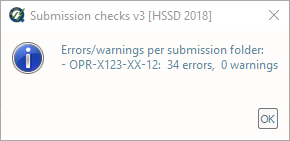
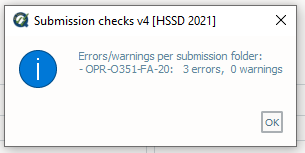
manual updates for Submission Checks

Changed region(s): [[0.0, 0.0, 1.0, 1.0]]

diff --git a/docs/conf.py b/docs/conf.py
@@ -51,7 +51,7 @@ copyright = u'2021, CCOM/JHC,UNH'
 # The short X.Y version.
 version = '3.4'
 # The full version, including alpha/beta/rc tags.
-release = '3.4.2'
+release = '3.4.3'
 
 numfig = True
 

diff --git a/docs/user_manual_survey_submission_checks.rst b/docs/user_manual_survey_submission_checks.rst
@@ -26,23 +26,16 @@ Ensures the required directory structure and completeness of survey deliverables
     * Turn the knob to select the applicable year as pertaining to required Hydrographic Survey Specifications.
     * Flag the **HXXXXX_GSF (NOAA only)** check if the submission is from a NOAA field unit.
 
-* In **Execution** (:numref:`submission_check_interface`, rigth side), click **Submission checks v3**.
+* In **Execution** (:numref:`submission_check_interface`, rigth side), click **Submission checks v4**.
 
 .. _submission_check_interface:
 .. figure:: _static/submission_check_interface.png
     :align: center
-    :alt: logo
+    :alt: submission check interface
 
     The **Submission check** interface.
 
-* After computing, the output window opens automatically, and the results are shown (:numref:`submission_check_results`).
-
-.. _submission_check_results:
-.. figure:: _static/submission_check_results.png
-    :align: center
-    :alt: logo
-
-    The **Submission check** output message.
+* After computing, the output window opens automatically, and the results are shown.
 
 * Note that the project level (**"OPR-X###-XX-##"**) contains all the results from the surveys (**"X#####"**) contained within; thus the number of errors and warnings is equivalent to the sum of the individual components.
 
@@ -50,7 +43,7 @@ Ensures the required directory structure and completeness of survey deliverables
 
 * The output names adopt the following convention:
 
-    * [project].SCv3.["project" | "X#####" | "report"].[HSSD].[profile].["rec" for recursive | "exh" for exhaustive]
+    * [project].SCv4.["project" | "X#####" | "report"].[HSSD].[profile].["rec" for recursive | "exh" for exhaustive]
 
 * The output will be exported under a subfolder (**H#####**) in the output location defined on the data import tab.
   If "sub-folders" is selected in the import tab, the file will be placed in an additional "submissions" sub-folder
@@ -75,7 +68,7 @@ Root folders have the following requirements:
 
 The ensuing submission check will scan the directories of the root folders to ensure compliance with Appendix J of the HSSD.
 
-The logic for the 2018 QC Tools submission check is shown below. For previous years, refer to the HSSD for that year.
+The logic for the 2021 QC Tools submission check is shown below. For previous years, refer to the HSSD for that year.
 
 * OPR-X###-XX-##
      * X##### [1]_
@@ -105,14 +98,8 @@ The logic for the 2018 QC Tools submission check is shown below. For previous ye
                     * Descriptive_Report
                         * Appendices
                             * I_Water_Levels
-                            * II_Supplimental_Survey_Records_Correspondence
+                            * II_Supplimental_Records
                     * Public_Relations_Constituent_Products
-                    * Separates
-                        * I_Acquisition_Processing_Logs
-                            * Detached_Positions
-                        * Digital_Data
-                            * Crossline_Comparisons
-                            * Sound_Speed_Data_Summary
             * S-57_Files
                 * Final_Feature_File
                 * Side_Scan_Sonar_Contacts
@@ -156,10 +143,10 @@ The logic for the 2018 QC Tools submission check is shown below. For previous ye
 What do you get?
 ^^^^^^^^^^^^^^^^^
 
-Upon completion of the execution of **Submission checks** you will receive a pop-up verification that the tool has completed and if there were any errors or warnings associated with the data structure (:numref:`fig_sub_scan_pop_up`).
+Upon completion of the execution of **Submission checks** you will receive a pop-up verification that the tool has completed and if there were any errors or warnings associated with the data structure (:numref:`fig_submission_check_results`).
 
-.. _fig_sub_scan_pop_up:
-.. figure:: _static/sub_scan_pop_up.png
+.. _fig_submission_check_results:
+.. figure:: _static/submission_check_results.png
     :width: 300px
     :align: center
     :figclass: align-center
@@ -168,8 +155,8 @@ Upon completion of the execution of **Submission checks** you will receive a pop
 
 **Submission checks** produces a PDF document that indicates if there were errors or warnings with specific folders in the data submission structures.
 
-.. _fig_sub_scan_output:
-.. figure:: _static/sub_scan_output.png
+.. _fig_submission_check_output:
+.. figure:: _static/submission_check_output.png
     :width: 700px
     :align: center
     :alt: Example of PDF results for submission checks
